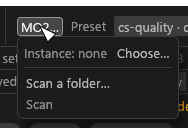
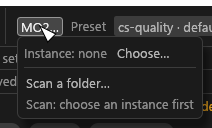
Wiki: NIF edit drafts, Meshes list source, Edit button (review E)

Changed region(s): [[0.0, 0.3125, 1.0, 0.9062], [0.0798, 0.125, 1.0, 0.3125], [0.0798, 0.9688, 0.1064, 1.0]]

diff --git a/docs/wiki/GUI-NIF-Edit.md b/docs/wiki/GUI-NIF-Edit.md
@@ -1,22 +1,22 @@
 # Editing a NIF
 
-How to edit a mesh's shader, alpha, controllers and extra data in the Meshes view, and export an edited copy. For mod authors fixing or tuning meshes. Your source file is never changed. Controllers are on [NIF animation](GUI-NIF-Animation.md); existing clips play there.
+For mod authors tuning a mesh, the Meshes view lets you edit its shader, alpha and extra data and export a copy. For controllers and clip playback, see [NIF animation](GUI-NIF-Animation.md).
 
 ## Before you start
 
 - Scan your mods first, so the Meshes view lists your meshes ([Mod scanning](Mod-Scanning.md)).
-- Pick an export folder with **Export to ▾** in the header ([Export to](GUI-Main-Window.md#export-to)). Edited NIFs go there, next to your textures. <!-- D:GD5 -->
+- To export the edited copy alongside your textures, choose a folder with **Export to ▾** in the header. You can start editing before choosing one. [Export to](GUI-Main-Window.md#export-to)
 
 ## Editing a NIF
 
-**Edit** (next to the NIF's name in the Meshes view) opens the edit panel for the selected NIF; click it again to close the panel. A NIF with a saved edit gets a chip in the mesh list: **Edit pending**, **Edited** (exported and unchanged) or **Edit conflict**. The panel shows the file's data path and `Source: <where it came from>`. Edits never change the source file. They are kept in a small edit document in `.sdc\nif-edits` under the export folder, and the export (from Review) writes a copy there. The export folder is the Textures one, once you have chosen it for the project (**Export to ▾** in the header, or **Choose the export folder…** in Review); there is no default. Until you choose one the edit works, the edit panel says "Skipped until an export folder is chosen", Review's export says "No export folder chosen", and the edit document is kept in `%LOCALAPPDATA%\sdc\nif-edits` (one file per NIF); the first save into a chosen folder moves it there. Tessalith never edits a NIF from an `sdc NIF Edits` folder, or from any folder that holds its edit document for that NIF. <!-- D:GQ3 -->
+Click the **Edit** button beside the selected NIF’s name. Click it again to close the panel. <!-- D:LD8 --> The panel shows the NIF’s data path and source. In the mesh list, **Edit pending** marks edits to export, **Edited** marks an unchanged export and **Edit conflict** marks a conflict. Tessalith skips copies from an `sdc NIF Edits` folder or a folder that holds the export record for that NIF, so you edit the source mesh. <!-- D:GQ3 -->
 
-**Cards.** In edit mode the shape cards get a **Root** card first, then one card per shape. Click a card's header to select it; the tabs below edit it, and a line under the tab strip names it ("Editing: BodyMesh (BSTriShape)"). **Show only this shape** hides the other shapes in the 3D view. A change to the shader type, a flag, the alpha or a texture path shows on its card at once.
+**Cards.** In edit mode the shape cards get a **Root** card first, then one card per shape. Click a card's header to select it; the tabs below edit it, and a line under the tab strip names it (“Editing: BodyMesh”). Hover the name for its NIF block type. <!-- D:LD10 --> **Show only this shape** hides the other shapes in the 3D view. A change to the shader type, a flag, the alpha or a texture path shows on its card at once.
 
 ## Tabs
 
-- **Shader** edits the BSLightingShaderProperty of the selected shape: texture slots (counted from 1 like the set editor; a True PBR set uses the set editor's names for slots 3 and 7), shader type, the per-type fields and the SLSF1 and SLSF2 flag lists. A list with a flag warning starts open.
-- **Alpha** edits the NiAlphaProperty. A blend pair the engine mapping does not cover is drawn as stored and marked **Not verified in game**.
+- **Shader** edits the selected shape’s texture slots, shader type, **Texture wrap**, per-type fields and **Shader flags 1** and **Shader flags 2**. Hover the flag headers for their NifSkope names. Slots count from 1. True PBR uses the set editor’s names for slots 3 and 7. A flag list with a warning starts open.
+- **Alpha** edits the shape’s alpha settings. A blend pair the engine mapping does not cover is drawn as stored and marked **Not verified in game**.
 - **Controllers** lists the shape's controllers and edits their keys: [NIF animation](GUI-NIF-Animation.md#the-controllers-tab).
 - **Extra data** lists the extra data of the root or the selected shape: BSXFlags bits, string, integer, boolean and float values, BSInvMarker. **Add to root**, **Add to shape** and **Remove** change the list. Each row shows its own warnings under it, for example "BSXFlags must be named BSX". A **Known** list above the type and name fills in an entry the game or a plugin reads, with its type, name and a starting value. On a shape: **AnisotropicAlphaMaterial** (Community Shaders see-through look; starts at 3, woven fabric). On the root: **BSX**, **INV**, **HDT Skinned Mesh Physics Object** (type the physics xml path in **Value**; Add stays off until you do) and **Prn (unconfirmed)** (the skeleton node the item attaches to; not checked against a source yet). An entry that goes on the other owner is greyed ("Goes on the root", "Goes on a shape"), and so is one this owner already has ("Already on this root"). **Custom…** keeps free typing for anything else. BODYTRI is not offered: BodySlide and Outfit Studio write it. **Heel height (RaceMenu)** (shapes only; on the root: "The game ignores heel height here. Put it on a shape.") raises the actor so heels stand on the ground. It starts at the shape's stored value, **Calculate** fills it from the lowest point of the shape in bind pose (rounded to 0.1, still editable), and **Set heel height** writes it: the shape's HH_OFFSET is changed in place or added, and an SDTA the shape already has gets the same height in its NPC entry (a new SDTA only when **Also write SDTA** is ticked). It says when an earlier shape's heel height wins, and for `_0`/`_1` files it reminds you to apply the same value to the other weight file. Heel data anywhere but on a shape, and on a shape after the first shape in the scene that has some, warns under its row. A negative height says it lowers the actor. When the shape's HH_OFFSET is not a number the editor can set (another type), Set heel height stays off until that row is removed.
 
@@ -30,7 +30,7 @@ The panel says when a block has more than one user.
 
 ## Warnings
 
-On a PBR shape, the SLSF2 flags that CS reads differently (Fit_Slope, Multi_Layer_Parallax, Soft, Back, Rim and Effect lighting) get a dimmer "PBR: <meaning>" label, and the same text in their hover; a non-PBR shape shows only the vanilla names.
+On a PBR shape, the flags under **Shader flags 2** that CS reads differently (Fit_Slope, Multi_Layer_Parallax, Soft, Back, Rim and Effect lighting) get a dimmer "PBR: <meaning>" label, and the same text in their hover; a non-PBR shape shows only the vanilla names.
 
 Values are never clamped. A value outside the range the game expects, or a flag combination that looks wrong, shows an amber warning under the field (red for an error), sometimes with a **Fix** button. A red error that your edit introduced blocks the NIF's export. An error that was already in the source only warns. Three flag warnings come from the corpus census: shader type 11 without the Multi_Layer_Parallax flag (SLSF2 24) and without PBR; SLSF2 24 on a shader type other than 11; Fit_Slope (SLSF2 12) without PBR. On a True PBR shape an empty RMAOS slot is amber: "Slot 6 (RMAOS) is empty: in game the mesh renders fully metallic".
 
@@ -38,7 +38,7 @@ Values are never clamped. A value outside the range the game expects, or a flag 
 
 ## Pending edits, undo and source changes
 
-**Pending edits (N).** Every edit is a row in this list under the file name, named in words ("BodyMesh: SLSF1 flags"). A slider drag is one row. **Revert** removes that edit. A row in red did not apply, with the reason.
+**Pending edits (N).** Every edit is a row in this list under the file name, named in words ("BodyMesh: Shader flags 1"). A slider drag is one row. **Revert** removes that edit. A row in red did not apply, with the reason.
 
 **Undo.** With the NIF editor visible, **Undo NIF edit** and **Redo NIF edit** act on that NIF. Hover either for the step's full name. With no NIF edit open, or when a docked tool covers Meshes, the header, command palette and **Ctrl+Z** / **Ctrl+Y** use the shared project history. If your last project edit changed a texture, **Undo** in Settings reverses that texture edit. The status line names the step while the tool covers Meshes. <!-- D:JY13,JY15,JY20 -->
 
@@ -46,7 +46,7 @@ Values are never clamped. A value outside the range the game expects, or a flag 
 
 ## Export
 
-The bottom of the edit panel stays under the tabs however long a tab is. Its first line is a status: a green dot and **Ready**, a grey dot and "No edits to export." while nothing is edited, a grey dot and "Skipped until an export folder is chosen" once there are edits and no folder (Review lists the same), or a red dot and **Blocked:** with the reason: an edit cannot be applied, conflicts are open, or an edit introduced an error. When a pending row is red, **Show** opens the pending list. When a file Tessalith did not write is already at the export path, **Diff…** opens a list of the blocks that differ between that file and what the export writes, read at the click; **Close** shuts it. Then "Writes meshes\…\x.nif to <export folder>\meshes\…\x.nif" (hover for the full path) and "The source file is never changed. Change the folder with Export to ▾ in the header."
+The footer stays visible while you scroll the texture slots. <!-- D:LD6 --> Its first line is a status: a green dot and **Ready**, a grey dot and "No edits to export." while nothing is edited, a grey dot and "Skipped until an export folder is chosen" once there are edits and no folder (Review lists the same), or a red dot and **Blocked:** with the reason: an edit cannot be applied, conflicts are open, or an edit introduced an error. When a pending row is red, **Show** opens the pending list. When a file Tessalith did not write is already at the export path, **Diff…** opens a list of the blocks that differ between that file and what the export writes, read at the click; **Close** shuts it. The **Writes** line shows the NIF’s data path and export destination. Hover it for both full paths and the reminder that the source file stays untouched.
 
 **Review…** opens Review in the bottom panel: NIF edits export from there, with the textures, when you press Review's Export. <!-- D:GD2 --> The button itself never writes. In Review each NIF with edits is a row: its mod, how many unused blocks the export leaves out, and the result after the export (written, or skipped and why). A blocked NIF row is skipped and never blocks the texture export. Each write puts "Exported <path> to <mod>." in Messages, with a placement line when the mod order is wrong: when the export folder is a mod folder in the MO2 instance's `mods`, the export checks the mod order and says whether that mod must be enabled, or dragged below the highest source or above the lowest PGPatcher output; any other folder says "The export folder is not an MO2 mod here: load order not checked." and still exports. With no folder open (no project), Review still exports NIF edits: its button reads "Export 1 NIF edit", it needs an export folder (**Choose the export folder…**; the `gui.toml` one), writes the NIFs there and starts no texture run.
 
@@ -54,9 +54,15 @@ The bottom of the edit panel stays under the tabs however long a tab is. Its fir
 
 While an edit is open, a right-click on the 3D view (a click, not a drag) opens a menu with **Export this NIF**. It writes the open NIF to the export folder at once, with no Review and no texture run, and reports as Review's export does (Messages, a toast, the per-file lines). It is greyed with the reason on hover: "No edits to export.", the NIF's own blocked reason, "An export is running", or "No export folder chosen", in which case **Choose export folder…** appears under it and opens the header's picker. A file Tessalith did not write at the destination is never overwritten this way: the click opens Review on that row, and once you have answered Overwrite there the next **Export this NIF** writes. Right-drag still orbits and Shift+right-drag still turns the sun; the set preview's 3D view has no menu.
 
-### Changing the export folder
+### Where your edits are saved
 
-Open edits stay in memory and the next save goes to the new folder. If that folder already holds saved edits for the NIF, your open edit wins: the old saved edits are moved aside to `<name>.<seconds>.toml` beside them, never overwritten, and Messages names the file. If the new folder's edit document can't be opened, the edit stays blocked and saves go to the autosave in `%LOCALAPPDATA%\sdc\nif-edits` until you pick a folder that works. Once the NIF is edited, a folder that holds the mesh the edit applies to is refused, so an export never replaces its source: the folder is not taken, and the NIF's row is blocked with the reason until you pick another one. <!-- D:HS12 -->
+Tessalith saves each change in `_sdc\nif-edits` inside your project folder. A slider drag saves when you release it. With no project open, the draft goes in `%LOCALAPPDATA%\sdc\nif-edits`. The export folder gets the edited NIF and its record when you export. <!-- D:LD1,LD2 -->
+
+Look for **Draft saved in** at the bottom of the edit panel. **Show in Explorer** selects that draft in its folder. <!-- D:LD5 -->
+
+When you switch or close projects, Tessalith saves any outstanding edits with their project and ends that edit session. The selected NIF can reopen with the edits for the project you switched to. If the edits can’t be recovered, the session stays open and the panel tells you why. Edits made without a project carry into the next project you open. If it has edits for the same mesh, the newer edits win. <!-- D:LD4,LD12 -->
+
+If Tessalith finds an unexported draft in the export folder, your next change moves it to the current draft location. An exported record stays where it is. <!-- D:LD3 --> Choosing a different export folder leaves your draft in place. If that folder holds the source mesh itself, the row asks you to choose another folder to protect the source. <!-- D:HS12 -->
 
 ### After an export
 
@@ -64,7 +70,7 @@ After an export, the worklist has a Warning row "Re-run PGPatcher so its output 
 
 ### A file Tessalith did not write
 
-If the file at the destination is not the one Tessalith last wrote, its Review row waits for an answer, keep the file on disk or overwrite it, with neither picked. Until you answer, the export skips that NIF. An answer counts for one export, and only while the file on disk is the one you answered for: a file that changed since says "changed on disk since you answered" and asks again. The row's **Diff…** switches to the Meshes view and opens the edit panel's list of the blocks that differ.
+If another project owns the installed NIF or its bytes differ from the recorded export, its Review row waits for an answer, keep the file on disk or overwrite it, with neither picked. Until you answer, the export skips that NIF. An answer counts for one export, and only while the file on disk is the one you answered for: a file that changed since says "changed on disk since you answered" and asks again. The row's **Diff…** switches to the Meshes view and opens the edit panel's list of the blocks that differ.
 
 ## PGPatcher and the game
 

diff --git a/docs/wiki/GUI-Review-and-Export.md b/docs/wiki/GUI-Review-and-Export.md
@@ -62,7 +62,7 @@ You can edit the project with Review open and its lists update. Deciding the las
 - **Blockers** (red) carry the buttons of [Rows and their fixes](GUI-Problems.md#rows-and-their-fixes). A missing export folder, a missing preset (**Choose preset…**) and a read-only `sdc.toml` count as blockers. <!-- D:FP8 --> Export stays greyed with the reason ("Fix 2 blockers first").
 - **Undecided** rows carry the same buttons as Problems, and **Accept all suggestions**: [Deciding from the list](GUI-Problems.md#deciding-from-the-list). Warnings aren't listed here: they never hold back Export ([Problems](GUI-Problems.md#rows-and-their-fixes)).
 - **What will be written** groups the primary outputs by path under **Will be written**, **Up to date**, **Kept** and **Protected**. While it says *checking which changed…*, you can still export. A path labelled *depends on this export* shows where the file goes. Review hasn't confirmed yet whether this export will write it. **Will be written** counts only definite writes. The list also shows the state of each JSON. <!-- D:JY7,JY8 -->
-- **Also updated:** lists other paths the export can change, including project settings, ownership records, the output manifest and borrowed-slot copies. Hover an entry for its full path and purpose. An extra output folder has one entry for its contents. <!-- D:JY4 -->
+- **Also updated:** lists other paths the export can change, including project settings, ownership records, the output manifest and borrowed-slot copies. Hover an entry for its full path and purpose. An extra output folder has one entry for its contents. <!-- D:JY4 --> For each NIF that will be written, the list includes the NIF and its export record. It includes the draft when Export needs to save edits or the draft’s ID, plus any recovery files it will back up or remove. <!-- D:LD1,LD3 -->
 - **NIF edits** lists each edited NIF. An edit that can't be written appears in amber with its reason. You can still export the textures. Cancelling the texture export leaves the NIFs alone.
 
 **Export 20 files (skip 2 undecided)** writes the decided textures. **Close** cancels an export queued from Review.

diff --git a/docs/wiki/Mod-Scanning.md b/docs/wiki/Mod-Scanning.md
@@ -17,7 +17,7 @@ Your own choices in `sdc.toml` win over scan evidence.
 
 ## Choosing what to scan
 
-The scan source is behind the **MO2…** button in the header, on both the Textures and the Meshes view. **Scan** starts it, **Cancel** stops it.
+The scan source is behind the **MO2…** button in the header, on both the Textures and the Meshes view. **Scan** starts it, **Cancel** stops it. Until you choose an instance or a folder, the row reads **Scan: choose an instance first**. If the instance needs a profile, it reads **Scan: choose a profile first**. While scanning, hover the disabled **Choose…** or **Scan a folder…** for the reason. <!-- D:LD9 -->
 
 ![The MO2… popup.](../img/gui/Mod-Scanning/mo2-popup.png)
 
@@ -51,7 +51,7 @@ The **Meshes** tab shows what the scan found. **Scan details** on the scan row l
 
 ### Finding a mesh
 
-The NIFs column lists every mesh path once, with the copy that wins in game. Hover a row's chips for the details.
+The NIFs column names the scan behind the list, for example “From the scan of G:\Acherus. Scan data last written 2026-11-10.” The date is the last write to the scan database. The NIFs column lists every mesh path once, with the copy that wins in game. Hover a row's chips for the details. Long paths shorten in the middle. Hover a path to read it in full. <!-- D:LD7,LD9 -->
 
 - **Search paths and mods** matches the path or mod name. ASCII case doesn't matter, `\` reads as `/` and a leading `meshes/` is ignored.
 - **Any mod** picks one mod and lists all of its copies, including the ones that lose. PGPatcher's output mod isn't offered.
